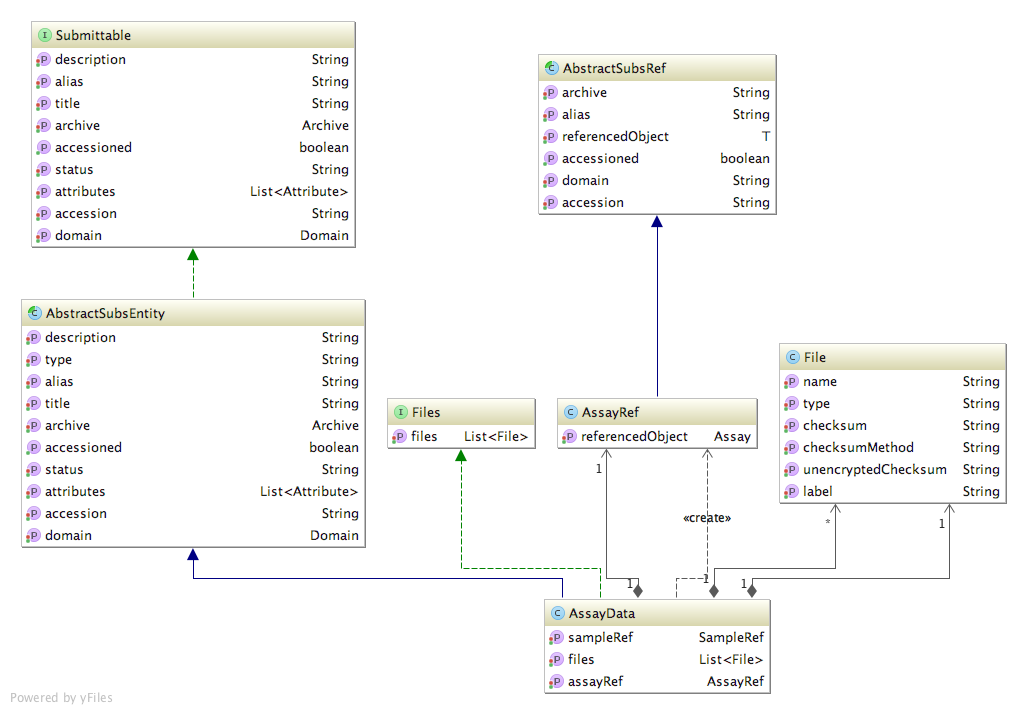
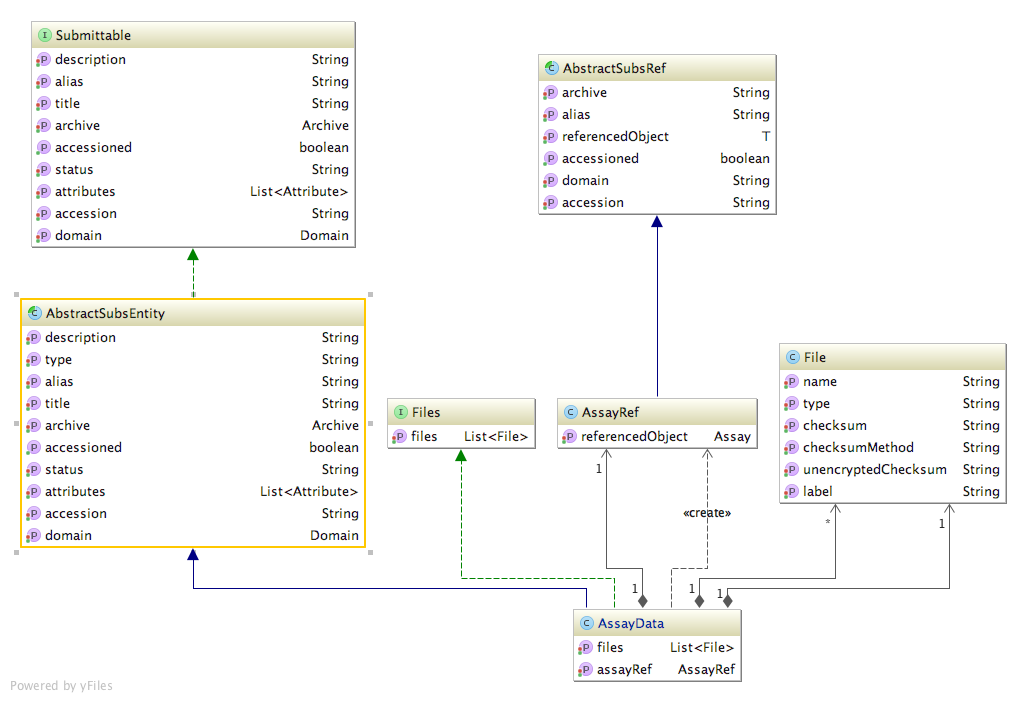
remove SampleRef from AssayData

diff --git a/subs-data-model/src/main/java/uk/ac/ebi/subs/data/submittable/AssayData.java b/subs-data-model/src/main/java/uk/ac/ebi/subs/data/submittable/AssayData.java
@@ -20,14 +20,6 @@ public class AssayData extends AbstractSubsEntity<AssayData> implements Files {
         this.assayRef = assayRef;
     }
 
-    public SampleRef getSampleRef() {
-        return sampleRef;
-    }
-
-    public void setSampleRef(SampleRef sampleRef) {
-        this.sampleRef = sampleRef;
-    }
-
     @Override
     public List<File> getFiles() {
         return files;
